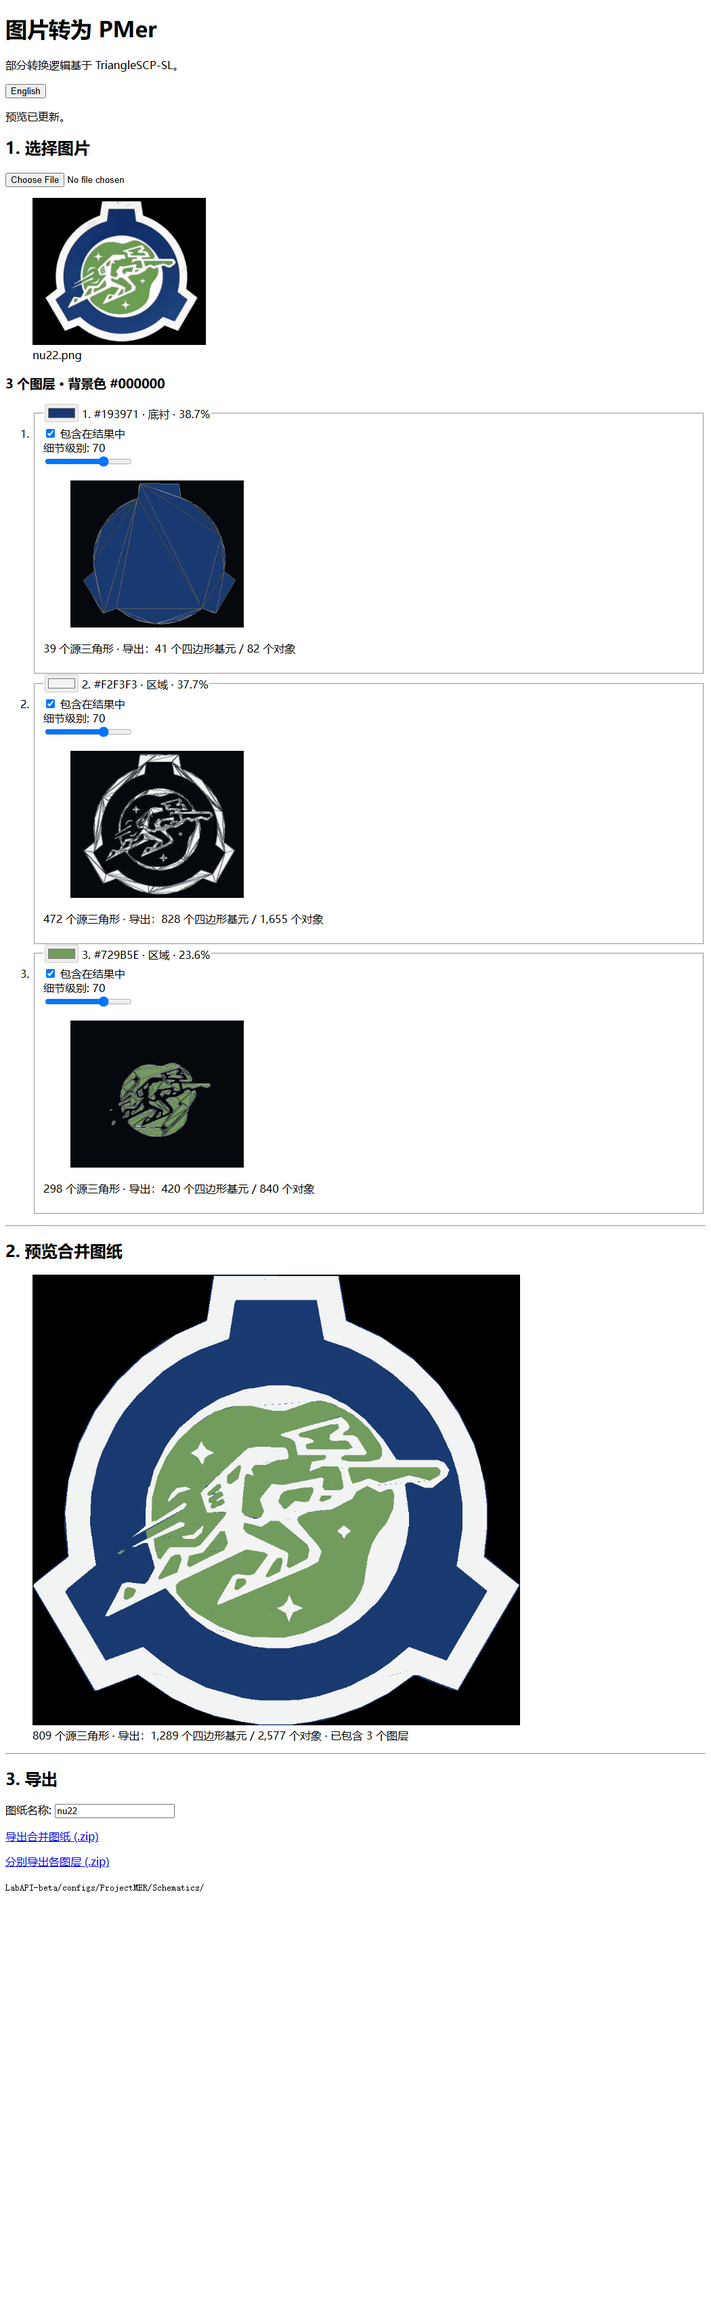
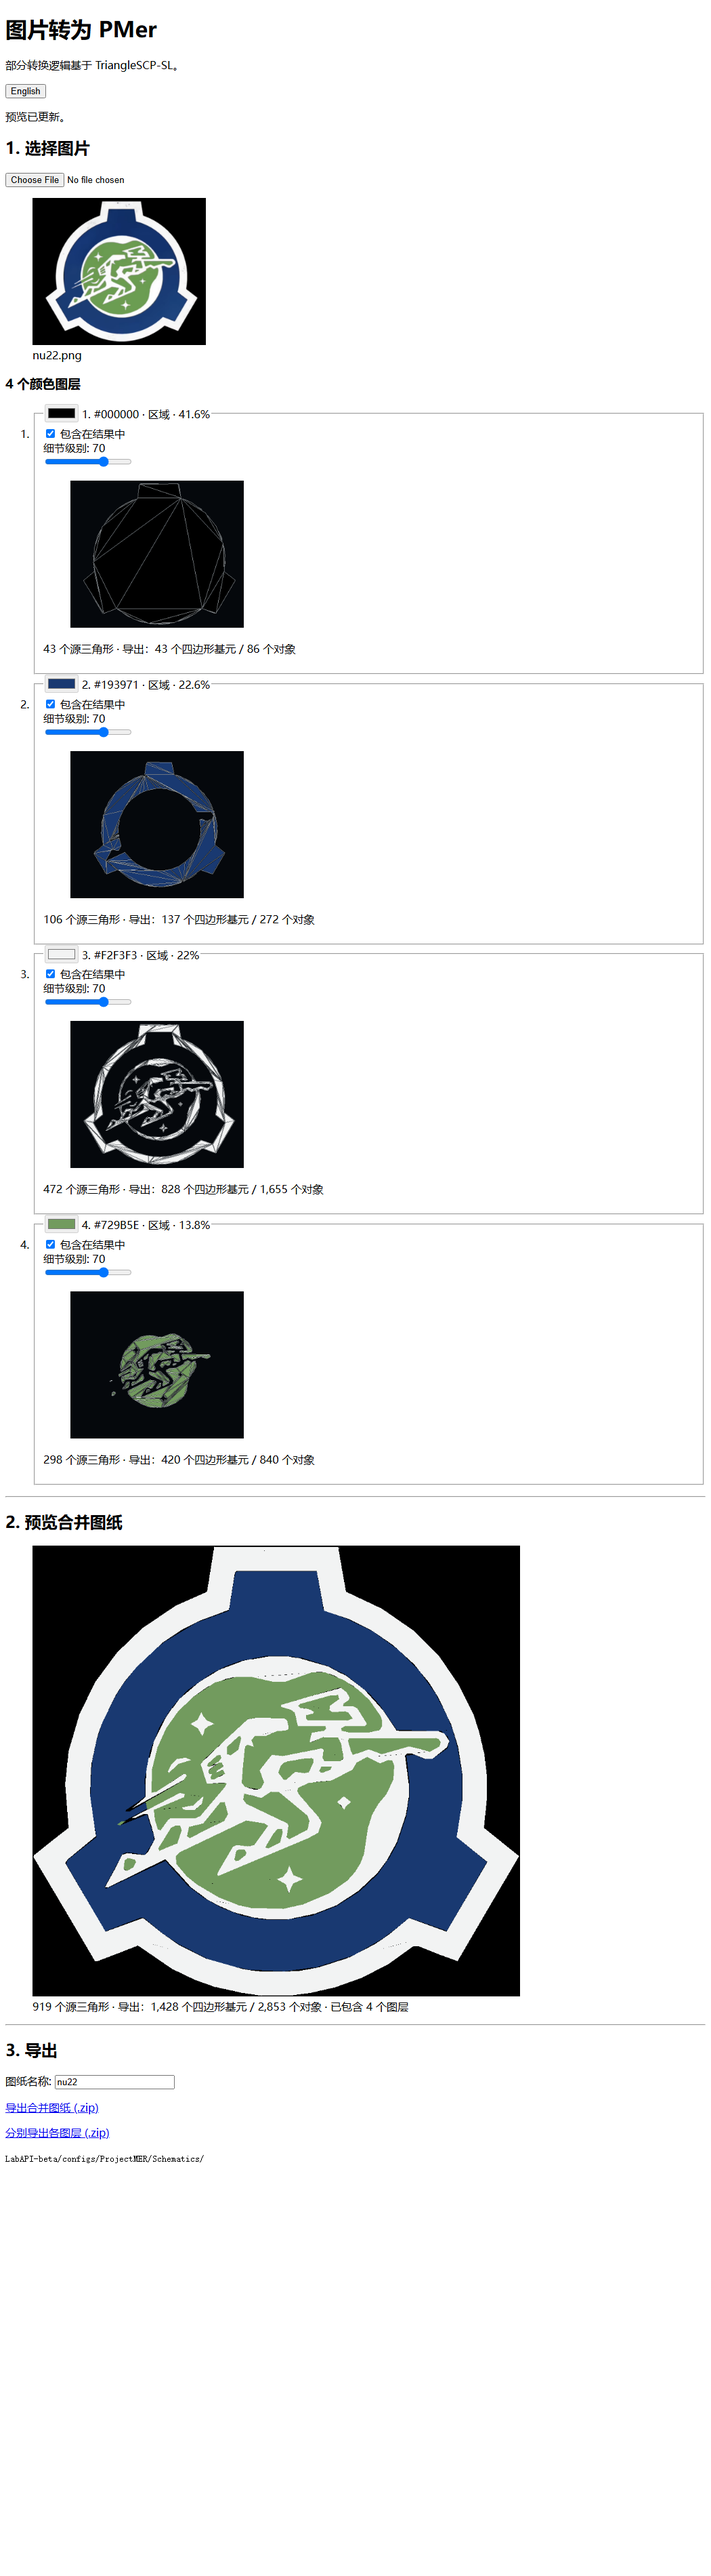
Preserve every detected color region (#3)
* Use one Windows launcher and simplify docs

* Preserve every detected color region

Changed region(s): [[0.0, 0.0, 0.7314, 0.8418], [0.3962, 0.2494, 0.4267, 0.2806]]

diff --git a/webapp/index.html b/webapp/index.html
@@ -69,7 +69,7 @@
         export_separated: "Export layers separately (.zip)",
         splitting: "Detecting colour layers…",
         split_done: count => `${count} layers found. Loading preview…`,
-        layer_summary: (count, background) => `${count} layers · background colour ${background}`,
+        layer_summary: count => `${count} colour layers`,
         backing: "backing",
         region: "region",
         detail: "Detail level",
@@ -98,7 +98,7 @@
         export_separated: "分别导出各图层 (.zip)",
         splitting: "正在识别颜色图层…",
         split_done: count => `已识别 ${count} 个图层，正在加载预览…`,
-        layer_summary: (count, background) => `${count} 个图层 · 背景色 ${background}`,
+        layer_summary: count => `${count} 个颜色图层`,
         backing: "底衬",
         region: "区域",
         detail: "细节级别",
@@ -163,9 +163,7 @@
 
     function renderLayers() {
       if (!layerData) return;
-      element("layer-summary").textContent = text(
-        "layer_summary", layerData.layers.length, layerData.background
-      );
+      element("layer-summary").textContent = text("layer_summary", layerData.layers.length);
       const list = element("layers");
       list.replaceChildren();
       layerData.layers.forEach((layer, index) => {

diff --git a/tools/trace_svg.py b/tools/trace_svg.py
@@ -40,12 +40,32 @@ from shapely.geometry import Polygon
 ROOT = Path(__file__).resolve().parent.parent
 
 
+def image_rgb_and_visible(im):
+    """Return RGB pixels and a mask of pixels that actually exist.
+
+    RGB images have no transparency, so every pixel is visible. For RGBA
+    images, fully transparent pixels are outside the artwork; their stored RGB
+    values must not be mistaken for a colour layer.
+    """
+    array = np.asarray(im)
+    if array.ndim != 3 or array.shape[2] < 3:
+        raise ValueError("expected an RGB or RGBA image")
+    rgb = array[:, :, :3].astype(float)
+    visible = (
+        array[:, :, 3] > 0
+        if array.shape[2] >= 4
+        else np.ones(array.shape[:2], dtype=bool)
+    )
+    return rgb, visible
+
+
 def classify(im, centroids):
     """centroids: dict name -> (r,g,b). Return (label_grid, names)."""
+    rgb, _visible = image_rgb_and_visible(im)
     names = list(centroids)
     C = np.array([centroids[n] for n in names], float)
-    d = ((im.reshape(-1, 1, 3) - C.reshape(1, -1, 3)) ** 2).sum(2)
-    return d.argmin(1).reshape(im.shape[:2]), names
+    d = ((rgb.reshape(-1, 1, 3) - C.reshape(1, -1, 3)) ** 2).sum(2)
+    return d.argmin(1).reshape(rgb.shape[:2]), names
 
 
 def layer_polys(mask, blur, simplify_tol, min_area=6.0):
@@ -119,13 +139,17 @@ def poly_to_svg(p, fill, holes_as_black=True):
 
 
 def auto_config(im, k=4):
-    """k-means an emblem into a palette + a guessed layer stack.
+    """K-means every visible colour into a normal, hole-preserving layer.
 
-    The darkest cluster is treated as background. Of the remaining colours the
-    one with the largest area becomes the solid backing (mode silhouette, z 0);
-    the rest are regions stacked smallest-area-in-front so fine detail wins."""
+    Automatic conversion deliberately does not guess a background and does not
+    promote any colour to a filled silhouette. Users can exclude unwanted
+    layers in the UI; retaining every region avoids destroying enclosed artwork.
+    """
     from numpy.random import default_rng
-    flat = im.reshape(-1, 3)
+    rgb, visible = image_rgb_and_visible(im)
+    flat = rgb[visible]
+    if not len(flat):
+        raise ValueError("image has no visible pixels")
     rng = default_rng(0)
     # Deterministic k-means++ seeding avoids missing a small foreground when a
     # flat background dominates the image. Stop early for truly low-colour art.
@@ -146,28 +170,17 @@ def auto_config(im, k=4):
             if (lab == j).any():
                 C[j] = flat[lab == j].mean(0)
     counts = np.bincount(lab, minlength=k)
-    # The background is the colour seen most often around the image boundary.
-    # This works for black, white, coloured, and transparency-flattened inputs.
-    label_grid = lab.reshape(im.shape[:2])
-    border_labels = np.concatenate((
-        label_grid[0, :], label_grid[-1, :], label_grid[:, 0], label_grid[:, -1]
-    ))
-    bg = int(np.bincount(border_labels, minlength=k).argmax())
-    centroids = {"background": tuple(int(v) for v in C[bg])}
     active = [j for j in range(k) if counts[j] > 0]
-    fg = [j for j in active if j != bg]
-    fg.sort(key=lambda j: -counts[j])
+    active.sort(key=lambda j: -counts[j])
+    centroids = {}
     layers = {}
-    for rank, j in enumerate(fg):
+    for rank, j in enumerate(active):
         r, g, b = (int(v) for v in C[j])
         name = f"c{rank}"
         centroids[name] = (r, g, b)
         fill = f"#{r:02X}{g:02X}{b:02X}"
-        if rank == 0:  # largest area = backing
-            layers[name] = [fill, 0, 1.2, "silhouette"]
-        else:  # smaller regions in front (higher z, finer simplify)
-            layers[name] = [fill, rank, 1.0, "region"]
-    return {"centroids": centroids, "background": "background", "layers": layers}
+        layers[name] = [fill, rank, 1.0, "region"]
+    return {"centroids": centroids, "layers": layers}
 
 
 def load_config(im, config_path=None):
@@ -178,25 +191,26 @@ def load_config(im, config_path=None):
     else:
         cfg = auto_config(im)
     centroids = {n: tuple(v) for n, v in cfg["centroids"].items()}
-    return centroids, cfg.get("background", "black"), cfg["layers"]
+    return centroids, cfg.get("background"), cfg["layers"]
 
 
 def build_layers(im, centroids, background, layers, blur=1.2):
     """Yield (name, fill, z_order, polys) back-to-front."""
+    _rgb, visible = image_rgb_and_visible(im)
     label, names = classify(im, centroids)
     idx = {n: i for i, n in enumerate(names)}
-    emblem = label != idx[background]
+    emblem = visible if background is None else visible & (label != idx[background])
     for name in sorted(layers, key=lambda n: layers[n][1]):  # by z_order back->front
         fill, z_order, tol, mode = layers[name]
         if mode == "silhouette":
             mask = binary_fill_holes(emblem)
         else:  # region: colour's natural mask, holes preserved
-            mask = label == idx[name]
+            mask = visible & (label == idx[name])
         yield name, fill, z_order, layer_polys(mask, blur, tol)
 
 
 def main(src_path, out_svg, config_path=None, blur=1.2):
-    im = np.array(Image.open(src_path).convert("RGB")).astype(float)
+    im = np.array(Image.open(src_path).convert("RGBA"))
     H, W = im.shape[:2]
     centroids, background, layers = load_config(im, config_path)
 

diff --git a/webapp/server.py b/webapp/server.py
@@ -24,6 +24,7 @@ OUTPUT_DIR = ROOT / "webapp" / "_output"
 INPUT_DIR = ROOT / "webapp" / "_input"
 MAX_UPLOAD_BYTES = 40 * 1024 * 1024
 NAME_RE = re.compile(r"[^A-Za-z0-9_.-]+")
+CACHE_VERSION = 2
 
 
 def clean_name(raw: str) -> str:
@@ -50,13 +51,13 @@ def analyze_layers(image_bytes: bytes, filename: str) -> dict:
 
     name = clean_name(Path(filename or "emblem").stem)
     image_path = save_upload(image_bytes, filename, name)
-    image = np.array(Image.open(image_path).convert("RGB")).astype(float)
+    image = np.array(Image.open(image_path).convert("RGBA"))
     height, width = image.shape[:2]
     config = trace_svg.auto_config(image, k=4)
     labels, names = trace_svg.classify(image, config["centroids"])
-    counts = np.bincount(labels.ravel(), minlength=len(names))
-    background = config["background"]
-    foreground_total = max(1, sum(int(counts[i]) for i, key in enumerate(names) if key != background))
+    _rgb, visible = trace_svg.image_rgb_and_visible(image)
+    counts = np.bincount(labels[visible], minlength=len(names))
+    visible_total = max(1, int(visible.sum()))
 
     layers = []
     for layer_name, (color, order, _tolerance, mode) in sorted(
@@ -68,14 +69,13 @@ def analyze_layers(image_bytes: bytes, filename: str) -> dict:
             "color": color,
             "order": order,
             "mode": mode,
-            "share": round(100 * int(counts[index]) / foreground_total, 1),
+            "share": round(100 * int(counts[index]) / visible_total, 1),
         })
     return {
         "ok": True,
         "name": name,
         "width": width,
         "height": height,
-        "background": "#%02X%02X%02X" % tuple(config["centroids"][background]),
         "layers": layers,
     }
 
@@ -129,7 +129,12 @@ def convert_layered(image_bytes: bytes, filename: str, params: dict) -> dict:
 
     for layer_name, quality in layer_qualities.items():
         cache_name, cache_folder, cache_json, cache_preview, cache_stats, cache_meta = cache_paths(layer_name)
-        expected_meta = {"source": source_hash, "layer": layer_name, "quality": quality}
+        expected_meta = {
+            "version": CACHE_VERSION,
+            "source": source_hash,
+            "layer": layer_name,
+            "quality": quality,
+        }
         actual_meta = None
         if cache_meta.is_file():
             try:

diff --git a/tests/test_smoke.py b/tests/test_smoke.py
@@ -66,20 +66,38 @@ class SmokeTests(unittest.TestCase):
             {"back": 20, "front": 95},
         )
 
-    def test_background_comes_from_the_boundary(self):
+    def test_auto_config_keeps_every_colour_as_a_region(self):
         image = np.full((40, 40, 3), 250, dtype=float)
         image[8:32, 8:16] = (20, 60, 130)
         image[8:32, 16:24] = (100, 160, 80)
         image[8:32, 24:32] = (210, 50, 60)
         config = trace_svg.auto_config(image, k=4)
-        background = config["centroids"][config["background"]]
-        self.assertGreater(sum(background), 700)
+        self.assertNotIn("background", config)
+        self.assertEqual(len(config["layers"]), 4)
+        self.assertTrue(all(layer[3] == "region" for layer in config["layers"].values()))
 
-    def test_two_colour_art_creates_one_foreground_layer(self):
+    def test_two_colour_art_keeps_both_colours(self):
         image = np.full((30, 30, 3), 255, dtype=float)
         image[8:22, 8:22] = (180, 20, 30)
         config = trace_svg.auto_config(image, k=4)
-        self.assertEqual(len(config["layers"]), 1)
+        self.assertEqual(len(config["layers"]), 2)
+
+    def test_transparency_is_not_a_layer_but_opaque_black_is(self):
+        image = np.zeros((30, 30, 4), dtype=np.uint8)
+        image[5:25, 5:25] = (255, 255, 255, 255)
+        image[10:20, 10:20] = (0, 0, 0, 255)
+        config = trace_svg.auto_config(image, k=4)
+        colours = set(config["centroids"].values())
+        self.assertEqual(colours, {(0, 0, 0), (255, 255, 255)})
+        self.assertTrue(all(layer[3] == "region" for layer in config["layers"].values()))
+
+        layers = list(trace_svg.build_layers(
+            image, config["centroids"], config.get("background"), config["layers"], blur=0.5
+        ))
+        polygons_by_fill = {fill: polygons for _name, fill, _order, polygons in layers}
+        self.assertTrue(polygons_by_fill["#000000"])
+        white_polygons = polygons_by_fill["#FFFFFF"]
+        self.assertTrue(any(len(p.interiors) for p in white_polygons))
 
     def test_export_names_are_safe(self):
         self.assertEqual(server.clean_name("  my badge / 01  "), "my-badge-01")

diff --git a/tools/layered_emblem_to_mer.py b/tools/layered_emblem_to_mer.py
@@ -214,13 +214,13 @@ def write_layer_previews(out_dir, name, layer_geometry, W, H, width_units):
 def convert(image_path, config_path, name, out_dir, make_preview, quality=None,
             make_mesh_preview=False, layer_qualities=None,
             make_layer_previews=False, only_layer=None):
-    im = np.array(Image.open(image_path).convert("RGB")).astype(float)
+    im = np.array(Image.open(image_path).convert("RGBA"))
     H, W = im.shape[:2]
     cfg = json.loads(Path(config_path).read_text()) if config_path else ts.auto_config(im)
     width_units = cfg.get("width_units", 10.0)
     blur = cfg.get("blur", 1.2)
     centroids = {n: tuple(v) for n, v in cfg["centroids"].items()}
-    background = cfg.get("background", "black")
+    background = cfg.get("background")
     unknown_layers = set(layer_qualities or {}) - set(cfg["layers"])
     if unknown_layers:
         raise ValueError(f"unknown layer quality override(s): {', '.join(sorted(unknown_layers))}")

diff --git a/README.en.md b/README.en.md
@@ -33,7 +33,7 @@ Then open `http://127.0.0.1:8731/`.
 
 ## Use it
 
-1. **Split layers:** choose a PNG, JPG, WEBP, or BMP. The colour most common around the image boundary becomes the background; foreground colour layers are detected automatically.
+1. **Split layers:** choose a PNG, JPG, WEBP, or BMP. Every detected visible colour becomes a normal region layer with its holes preserved; transparent pixels do not become a layer. Uncheck any colours you do not need.
 2. **Tune each layer:** every detected colour gets its own detail slider, real triangulation preview, source-triangle count, actual export cost, and **Include in result** checkbox. Export cost shows both visible quad primitives and total ProjectMER objects. Lower values create cheaper geometry; higher values preserve more contour detail. Unchecking a layer excludes it from the combined result and exports without rebuilding geometry.
 3. **Preview combined:** inspect the clean stacked ProjectMER result without construction triangles, plus totals for source triangles, quad primitives, and objects across all included layers. Changing any slider immediately hides stale output and shows **Loading…** until every preview is current.
 4. **Export:** choose one combined schematic or a ZIP containing one independently loadable schematic folder per layer. Extract either into:

diff --git a/README.md b/README.md
@@ -33,7 +33,7 @@ python3 webapp/server.py
 
 ## 使用方法
 
-1. **拆分图层：** 选择 PNG、JPG、WEBP 或 BMP。程序把图片边缘最常见的颜色识别为背景，并自动提取前景颜色图层。
+1. **拆分图层：** 选择 PNG、JPG、WEBP 或 BMP。程序把每个检测到的可见颜色提取为保留孔洞的普通区域图层；透明像素不会成为图层。无需的颜色可取消勾选。
 2. **分别调整图层：** 每个识别出的颜色都有独立细节滑杆、真实三角剖分预览、源三角形数量、实际导出成本和**包含在结果中**复选框。导出成本同时显示可见四边形基元与 ProjectMER 对象总数。较低数值生成更轻量的几何；较高数值保留更多轮廓细节。取消勾选会从合并结果和导出中排除该层，但不会重新生成几何。
 3. **预览合并结果：** 查看不含构造三角网格的干净 ProjectMER 堆叠效果，并查看所有已包含图层的源三角形、四边形基元和对象总数。任何滑杆变化都会立即隐藏旧结果并显示**加载中…**，直到所有预览更新完成。
 4. **导出：** 可导出一个合并图纸，也可导出包含每个独立可加载图层文件夹的 ZIP。将任一 ZIP 解压至：
